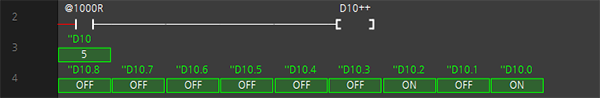
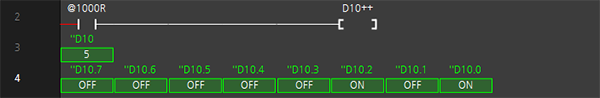
-

diff --git a/README.md b/README.md
@@ -371,13 +371,13 @@ D10.S4는 4개 D10부터 4개 워드를 사용하는 것으로 D10, D11, D12, D1
 ```
 1초에 한번 D10을 1씩 증가시켜 D10을 모니터링 한다
 
-모니터링 항목은 D10 워드 값과 각 D10의 0~8 까지 비트 표시한다
+모니터링 항목은 D10 워드 값과 각 D10의 0~7 까지 비트 표시한다
 
 현재 D10의 값은 5이며 각 비트의 표시되는 On/Off를 0/1로 바꿔 표시하면
 
-000000101로 이진수 101, 즉 십진수 10임을 확인할 수 있다.
+00000101로 이진수 101, 즉 10진수 5임을 확인할 수 있다.
 
-비트표현은 워드에서만 사용할 수 있으며 D0.0 ~ D0.F 까지 16개까지 표현 가능하다.
+비트표현은 워드에서만 사용할 수 있으며 D0.0 ~ D0.F 까지 16개까지 표현한다.
 ```
 
 
